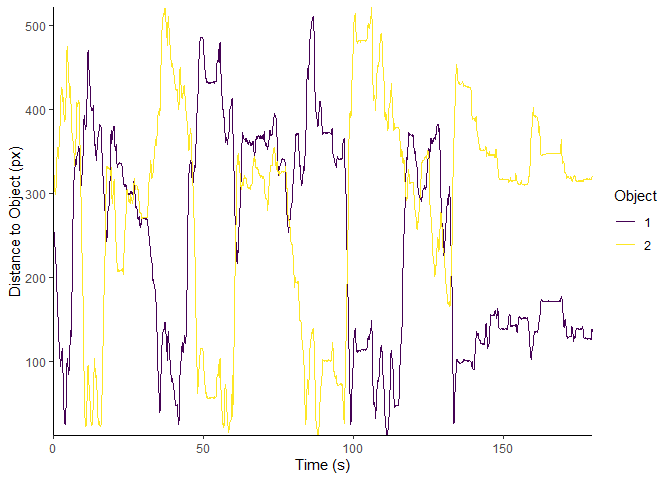
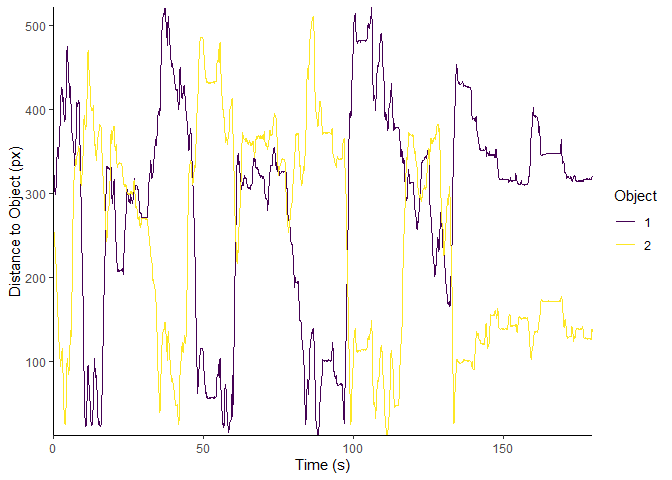
Readme fix

diff --git a/README.html b/README.html
@@ -404,16 +404,16 @@ DataSet[1:3,1:3]</code></pre>
 <p>Having a “clean” data set allows us now to calculate properties of the movement or the position. Here we will quickly look at the Distance (length of the vector at any given point) and the speed (vector length as function of time).</p>
 <pre class="r"><code># Calculate Speed/Distance Travelled
 DataSet[,InstDistance := sqrt((shift(nose_x, type = &quot;lead&quot;) - nose_x)^2+abs(shift(nose_y, type = &quot;lead&quot;) - nose_y)^2)][,NoseSpeed := InstDistance/(1/FrameRate)][,CumDist := cumsum(InstDistance)]</code></pre>
-<p>The syntax I use is with the <code>data.table</code> approach which is rather <strong>SQL</strong> like than <strong>R</strong> or <strong>Python</strong>. It is just super fast and keeps a clean table. Absolutely personal preference and I am willing to learn!</p>
-<p>The object coordinates can now used to seperate <strong>n</strong> numbers of objects using k-means. This will assign cluster numbers to based on location. What this means in the end is that jumping labels will be corrected. Here I will use the median XY for any given object in order to estimate the exact location without jitter. Then we will create a new table which just holds the coordinates for the objects.</p>
+<p>The syntax I use is with the <code>data.table</code> approach which is rather <strong>SQL</strong> like than <strong>R</strong> or <strong>Python</strong>. It is just super fast and keeps a clean table. Absolutely personal preference and I am willing to learn! &lt;&lt;&lt;&lt;&lt;&lt;&lt; HEAD</p>
+<p>=======   &gt;&gt;&gt;&gt;&gt;&gt;&gt; 85c0742deb4e2d8a7d089233a1700680bd75a862 The object coordinates can now used to seperate <strong>n</strong> numbers of objects using k-means. This will assign cluster numbers to based on location. What this means in the end is that jumping labels will be corrected. Here I will use the median XY for any given object in order to estimate the exact location without jitter. Then we will create a new table which just holds the coordinates for the objects.</p>
 <pre class="r"><code># Find Object Location
 ObjectSet &lt;- data.table(x=c(DataSet$object1_x, DataSet$object2_x), y = c(DataSet$object1_y, DataSet$object2_y))
 ObjectSet$ObjectLoc &lt;- kmeans(x = ObjectSet[,.(x,y)], centers = ObjectNumber)$cluster
 ObjectCoord &lt;- ObjectSet[,.(x=median(x),y=median(y)), by=ObjectLoc]
 ObjectCoord</code></pre>
 <pre><code>##    ObjectLoc        x        y
-## 1:         2 461.5869 425.1844
-## 2:         1 226.5102 131.8683</code></pre>
+## 1:         1 461.5869 425.1844
+## 2:         2 226.5102 131.8683</code></pre>
 <p>The location is calculated by vector length of mouse (nose) to the object. This should be further optimised using the centroid of the mouse. I guess it will be more stable too.</p>
 <pre class="r"><code># Calculate object distance for two objects (should be made more flexible)
 DataSet[,DistToObject1:=sqrt((nose_x-ObjectCoord[ObjectLoc==1, x])^2+(nose_y-ObjectCoord[ObjectLoc==1, y])^2)][,DistToObject2:=sqrt((nose_x-ObjectCoord[ObjectLoc==2, x])^2+(nose_y-ObjectCoord[ObjectLoc==2, y])^2)]</code></pre>
@@ -429,11 +429,7 @@ ObjectDistance &lt;- data.table(Time = rep(DataSet$bodyparts_coords/FrameRate, t
[2 lines of base64/hex data omitted]
 <p>The object distance plot shows the distance to object 1 and 2 at any given point in time. This plot would show a continous preference or equally distributed exploration.</p>
-<<<<<<< HEAD:README.html
[1 lines of base64/hex data omitted]
-=======
[1 lines of base64/hex data omitted]
->>>>>>> 85c0742deb4e2d8a7d089233a1700680bd75a862:README.html
 </div>
 
 

diff --git a/README.md b/README.md
@@ -87,13 +87,8 @@ ObjectCoord
 
 ```
 ##    ObjectLoc        x        y
-<<<<<<< HEAD
-## 1:         2 461.5869 425.1844
-## 2:         1 226.5102 131.8683
-=======
 ## 1:         1 461.5869 425.1844
 ## 2:         2 226.5102 131.8683
->>>>>>> 85c0742deb4e2d8a7d089233a1700680bd75a862
 ```
 The location is calculated by vector length of mouse (nose) to the object. This should be further optimised using the centroid of the mouse. I guess it will be more stable too.
 
